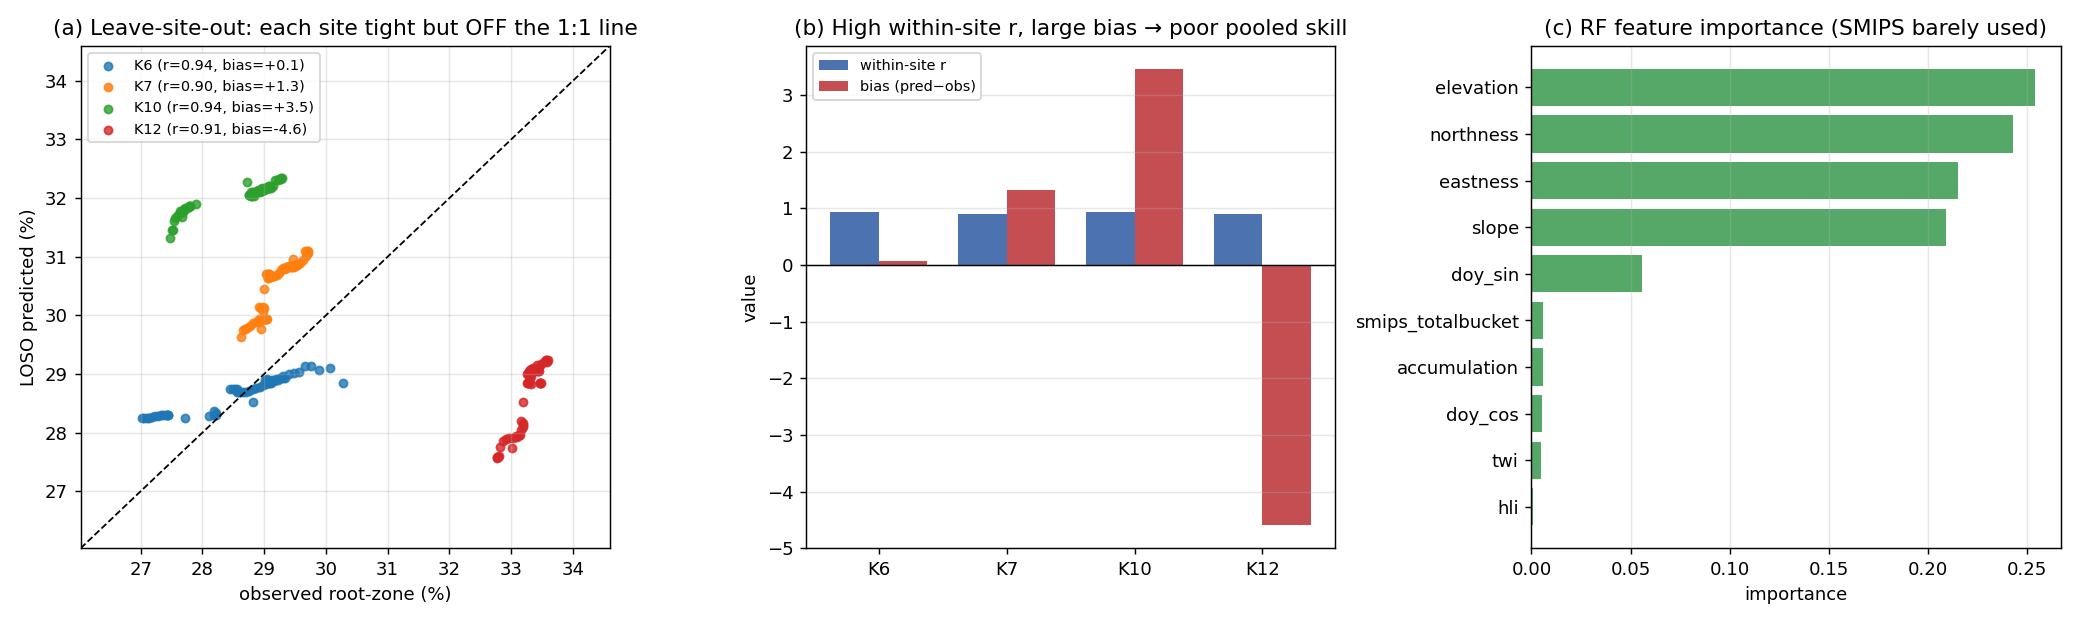
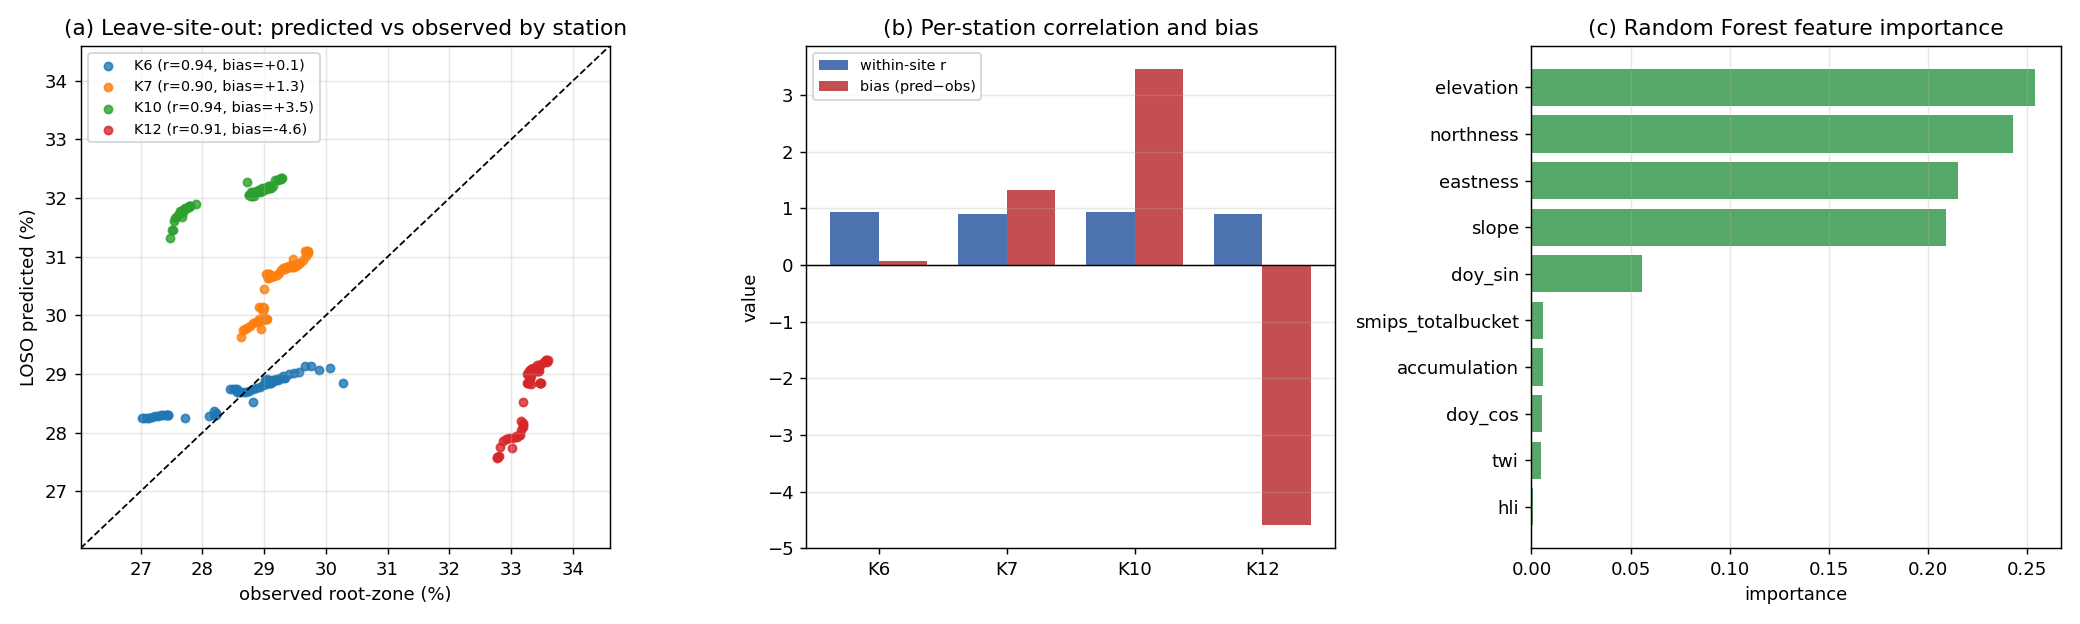
native grid vs fitted grid explanation added

Changed region(s): [[0.375, 0.0304, 0.6562, 0.0609], [0.0312, 0.0304, 0.3125, 0.0609], [0.75, 0.0304, 1.0, 0.0609]]

diff --git a/handout/plot_grid_alignment.py b/handout/plot_grid_alignment.py
@@ -1,0 +1,92 @@
+"""Illustrate the SMIPS WCS grid-alignment issue with real data at station K6.
+
+Top row: three request windows without native-grid alignment. The server refits
+an integer pixel grid to each requested box, so the cell boundaries differ
+between windows and the station (star) falls in different ~1 km cells, giving
+three different sampled values for the same location and date.
+
+Bottom row: the same three windows with snap_bbox. Each request is aligned to the
+native grid, the returned cells coincide, and the station yields one value.
+
+Run from repo root::  PYTHONPATH=. python handout/plot_grid_alignment.py
+"""
+from datetime import date
+from pathlib import Path
+
+import numpy as np
+import matplotlib
+matplotlib.use("Agg")
+import matplotlib.pyplot as plt
+
+import emt.smips as smips
+from emt.smips import smips_day
+from emt.queries import query_for_station
+
+REPO = Path(__file__).resolve().parent.parent
+FIG = REPO / "handout" / "figures" / "grid_alignment.png"
+DAY = date(2020, 6, 1)
+LON, LAT = 147.45720, -35.38978          # station K6
+HALF = 0.028                              # zoom half-width (deg), common to all panels
+
+q_stn = query_for_station("K6", LAT, LON, DAY, DAY, buffer_km=1.5)
+WINDOWS = {
+    "Wide request":   [147.435, -35.437, 147.626, -35.372],
+    "Medium request": list(q_stn.bbox),
+    "Narrow request": [LON - 0.015, LAT - 0.015, LON + 0.015, LAT + 0.015],
+}
+
+
+def fetch(bbox):
+    return smips_day(DAY, tuple(bbox)).sortby("x").sortby("y")
+
+
+def cell_edges(centres):
+    c = np.asarray(centres, float)
+    d = np.diff(c).mean()
+    return np.concatenate([[c[0] - d / 2], c + d / 2])
+
+
+def value_at(da):
+    return float(da.sel(x=LON, y=LAT, method="nearest").values)
+
+
+orig_snap = smips.snap_bbox
+fields = {}
+for name, bbox in WINDOWS.items():
+    smips.snap_bbox = lambda b, pad=1: list(b)       # alignment off (raw bbox)
+    off = fetch(bbox)
+    smips.snap_bbox = orig_snap                       # alignment on
+    on = fetch(bbox)
+    fields[name] = (off, on)
+
+crop = (fields["Wide request"][0]
+        .sel(x=slice(LON - HALF, LON + HALF), y=slice(LAT - HALF, LAT + HALF)).values)
+vmin, vmax = np.nanpercentile(crop, [5, 95])
+
+fig, axes = plt.subplots(2, 3, figsize=(15, 9.5))
+for col, (name, (off, on)) in enumerate(fields.items()):
+    for row, da in [(0, off), (1, on)]:
+        ax = axes[row, col]
+        ax.pcolormesh(cell_edges(da.x.values), cell_edges(da.y.values), da.values,
+                      cmap="YlGnBu", vmin=vmin, vmax=vmax,
+                      edgecolors="0.5", linewidth=0.4)
+        v = value_at(da)
+        ax.plot(LON, LAT, marker="*", ms=22, mfc="red", mec="k", mew=1.2, zorder=5)
+        ax.set_xlim(LON - HALF, LON + HALF); ax.set_ylim(LAT - HALF, LAT + HALF)
+        ax.set_xticks([]); ax.set_yticks([])
+        ax.set_title((f"{name}\n" if row == 0 else "") +
+                     ("aligned (snap_bbox): " if row == 1 else "raw request: ") +
+                     f"{v:.1f} mm", fontsize=11)
+        ax.text(LON, LAT - 0.006, f"{v:.1f} mm", ha="center", va="top",
+                fontsize=10, fontweight="bold",
+                bbox=dict(boxstyle="round", fc="white", alpha=.85, ec="none"))
+
+axes[0, 0].set_ylabel("Without grid alignment\n(server refits pixels to the box)", fontsize=12)
+axes[1, 0].set_ylabel("With grid alignment\n(request snapped to native grid)", fontsize=12)
+fig.suptitle("SMIPS WCS grid alignment at station K6 (2020-06-01): same location, "
+             "three request windows", fontsize=13, y=0.99)
+fig.tight_layout(rect=[0, 0, 1, 0.97])
+fig.savefig(FIG, dpi=130)
+print("wrote", FIG.relative_to(REPO))
+for name, (off, on) in fields.items():
+    print(f"{name:16} raw={value_at(off):6.2f}  aligned={value_at(on):6.2f}")

diff --git a/handout/plot_downscale.py b/handout/plot_downscale.py
@@ -68,7 +68,7 @@ fig, ax = plt.subplots(2, 2, figsize=(15, 12))
 
 # (a) coarse SMIPS input (mm), blocky ~1 km
 im0 = ax[0,0].imshow(ds["smips_native"].values, extent=ext, origin="upper", cmap="YlGnBu")
-ax[0,0].set_title("(a) Coarse SMIPS input — ~1 km (mm)")
+ax[0,0].set_title("(a) Coarse SMIPS input (~1 km, mm)")
 fig.colorbar(im0, ax=ax[0,0], shrink=.8, label="SMIPS TotalBucket (mm)")
 
 # (b) 30 m downscaled product (%), with held-out stations coloured by observation
@@ -76,7 +76,7 @@ im1 = ax[0,1].imshow(ds["sm_pred"].values, extent=ext, origin="upper",
                      cmap="YlGnBu", vmin=vmin, vmax=vmax)
 ax[0,1].scatter(sx, sy, c=obs[TARGET], cmap="YlGnBu", vmin=vmin, vmax=vmax,
                 s=90, edgecolor="red", linewidth=1.5, zorder=3)
-ax[0,1].set_title("(b) Downscaled 30 m product (%) — dots = held-out OzNet obs")
+ax[0,1].set_title("(b) Downscaled 30 m product (%); dots = held-out OzNet stations")
 fig.colorbar(im1, ax=ax[0,1], shrink=.8, label="root-zone SM (%)")
 
 # (c) the terrain detail the downscaling adds (zoom on the field)
@@ -85,7 +85,7 @@ sub = ds["sm_pred"].values[zy:zy+ny//3, zx:zx+nx//3]
 sub_ext = [float(ds.x[zx]), float(ds.x[zx+nx//3-1]),
            float(ds.y[zy+ny//3-1]), float(ds.y[zy])]
 im2 = ax[1,0].imshow(sub, extent=sub_ext, origin="upper", cmap="YlGnBu")
-ax[1,0].set_title("(c) Zoom: terrain-driven 30 m structure (absent in SMIPS)")
+ax[1,0].set_title("(c) Detail: 30 m terrain structure")
 fig.colorbar(im2, ax=ax[1,0], shrink=.8, label="root-zone SM (%)")
 
 # (d) validation scatter
@@ -97,15 +97,15 @@ lim = [min(obs[TARGET].min(), obs["pred"].min())-2,
        max(obs[TARGET].max(), obs["pred"].max())+2]
 ax[1,1].plot(lim, lim, "k--", lw=1)
 ax[1,1].set(xlim=lim, ylim=lim, xlabel="OzNet observed (%)", ylabel="downscaled @ station (%)",
-            title="(d) Held-out validation @ 12 Yanco stations")
+            title="(d) Held-out validation at 12 Yanco stations")
 ax[1,1].text(.03, .97, f"RMSE={M['rmse']:.2f}%\nubRMSE={M['ubrmse']:.2f}%\n"
              f"bias={M['bias']:+.2f}%\nr={M['r']:.2f}  n={M['n']}",
              transform=ax[1,1].transAxes, va="top", fontsize=10,
              bbox=dict(boxstyle="round", fc="w", alpha=.8))
 ax[1,1].grid(alpha=.3)
 
-fig.suptitle(f"Stage 6 — SMIPS → 30 m over Yanco, {DAY} "
-             f"(model trained on Kyeamba+Adelong, Yanco held out)", y=1.0, fontsize=13)
+fig.suptitle(f"Stage 6: SMIPS to 30 m over Yanco, {DAY} "
+             f"(trained on Kyeamba and Adelong; Yanco held out)", y=1.0, fontsize=13)
 fig.tight_layout()
 fig.savefig(FIG, dpi=130)
 stamp(f"wrote {FIG.relative_to(REPO)}")

diff --git a/handout/plot_results.py b/handout/plot_results.py
@@ -90,7 +90,7 @@ def fig_data(new, old):
     ax[0].plot(lim, lim, "k--", lw=1, label="1:1 (no change)")
     ax[0].set(xlim=lim, ylim=lim, xlabel="SMIPS old (resampled, mm)",
               ylabel="SMIPS new (native grid, mm)",
-              title="(a) SMIPS correction from native-grid snapping")
+              title="(a) SMIPS before vs after native-grid alignment")
     ax[0].legend(fontsize=8); ax[0].grid(alpha=.3)
 
     shift = df.groupby("station").apply(
@@ -130,7 +130,7 @@ def fig_model(new, cv, per_site, imp):
     lim = [pred[[TARGET, "pred"]].min().min()-1, pred[[TARGET, "pred"]].max().max()+1]
     ax[0].plot(lim, lim, "k--", lw=1)
     ax[0].set(xlim=lim, ylim=lim, xlabel="observed root-zone (%)", ylabel="LOSO predicted (%)",
-              title="(a) Leave-site-out: each site tight but OFF the 1:1 line")
+              title="(a) Leave-site-out: predicted vs observed by station")
     ax[0].legend(fontsize=8, loc="upper left"); ax[0].grid(alpha=.3)
 
     x = np.arange(len(STATIONS)); w = 0.38
@@ -138,12 +138,12 @@ def fig_model(new, cv, per_site, imp):
     ax[1].bar(x+w/2, [per_site.loc[s, "bias"] for s in STATIONS], w, label="bias (pred−obs)", color="#c44e52")
     ax[1].axhline(0, color="k", lw=.8)
     ax[1].set_xticks(x); ax[1].set_xticklabels(STATIONS)
-    ax[1].set(title="(b) High within-site r, large bias → poor pooled skill", ylabel="value")
+    ax[1].set(title="(b) Per-station correlation and bias", ylabel="value")
     ax[1].legend(fontsize=8); ax[1].grid(alpha=.3, axis="y")
 
     imp_s = imp.sort_values()
     ax[2].barh(imp_s.index, imp_s.values, color="#55a868")
-    ax[2].set(title="(c) RF feature importance (SMIPS barely used)", xlabel="importance")
+    ax[2].set(title="(c) Random Forest feature importance", xlabel="importance")
     ax[2].grid(alpha=.3, axis="x")
 
     fig.tight_layout()
@@ -170,8 +170,8 @@ def fig_timeseries(new, cv, per_site):
         axx.xaxis.set_major_formatter(mdates.DateFormatter("%b %d"))
         if stn == "K6":
             axx.legend(fontsize=8, loc="upper left")
-    fig.suptitle("Leave-site-out prediction vs observed (right axis: SMIPS) — "
-                 "shape tracks, level is offset", y=1.0)
+    fig.suptitle("Leave-site-out prediction vs observed by station "
+                 "(right axis: SMIPS)", y=1.0)
     fig.tight_layout()
     fig.savefig(FIG_DIR / "per_site_timeseries.png", dpi=130)
     plt.close(fig)

diff --git a/handout/plot_catchment.py b/handout/plot_catchment.py
@@ -51,7 +51,7 @@ for patch, s in zip(bp["boxes"], SITES):
 for s, d in zip(SITES, data):
     ax[0,0].text(SITES.index(s)+1, np.median(d)+1, f"μ={d.mean():.0f}", ha="center", fontsize=9)
 ax[0,0].set(ylabel="SMIPS TotalBucket (mm)",
-            title="(a) SMIPS varies across sites now (the missing signal)")
+            title="(a) SMIPS distribution by site")
 ax[0,0].grid(alpha=.3, axis="y")
 
 # (b) leave-site-out predicted vs observed
@@ -74,7 +74,7 @@ ax[1,0].barh(y+h/2, [imp[f] for f in order], h, color="#55a868", label="catchmen
 ax[1,0].barh(y-h/2, [KYEAMBA_IMP.get(f,0) for f in order], h, color="#bbbbbb", label="Kyeamba-only (4 stn)")
 ax[1,0].set_yticks(y); ax[1,0].set_yticklabels(order); ax[1,0].invert_yaxis()
 ax[1,0].set(xlabel="importance",
-            title="(c) SMIPS goes from least- to most-used feature")
+            title="(c) Feature importance: catchment vs single-cluster")
 ax[1,0].legend(fontsize=9); ax[1,0].grid(alpha=.3, axis="x")
 
 # (d) per-station bias (remaining limitation)
@@ -84,7 +84,7 @@ ax[1,1].bar(range(len(ps)), ps["bias"], color=colors)
 ax[1,1].axhline(0, color="k", lw=.8)
 ax[1,1].set_xticks(range(len(ps))); ax[1,1].set_xticklabels(ps["station"], rotation=90, fontsize=7)
 ax[1,1].set(ylabel="per-station bias (pred−obs, %)",
-            title="(d) Residual per-station level bias (local soil, not in SMIPS+terrain)")
+            title="(d) Residual per-station bias")
 ax[1,1].grid(alpha=.3, axis="y")
 handles = [plt.Rectangle((0,0),1,1,color=SITE_COLOR[s]) for s in SITES]
 ax[1,1].legend(handles, SITES, fontsize=8)

diff --git a/handout/README.md b/handout/README.md
@@ -40,60 +40,88 @@ fit.
 
 ## Data quality: SMIPS WCS grid resampling
 
-The TERN GeoServer Web Coverage Service resamples each `GetCoverage` response to
-fit an integer pixel count within the requested bounding box. Consequently the
-grid origin and cell size of the returned raster depend on the request extent,
-and a fixed geographic point can fall in different ≈1 km cells depending on the
-window requested. For station K6 the sampled value was 43.7, 49.6, or 61.6 mm
-across three request windows for the same location and date (a ≈40 % range).
+SMIPS is published on a fixed *native grid*: ≈1 km cells at fixed geographic
+positions (origin 112.90499°E, −43.73500°N; cell size 0.0099976°, from the WCS
+`DescribeCoverage`). The TERN GeoServer Web Coverage Service does not return that
+grid directly; it fits an integer number of pixels into whatever bounding box is
+requested, so the returned cell size and origin shift with the request. A fixed
+point can therefore fall in different ≈1 km cells depending on the window: for
+station K6 the sampled value was 43.7, 49.6, or 61.6 mm across three windows for
+the same location and date (a ≈40 % range).
 
-The resolution (`snap_bbox` in [`smips.py`](modules/smips.py.md)) aligns every
-request to the native SMIPS grid, taken from the WCS `DescribeCoverage`
-(origin 112.90499°E, −43.73500°N; cell size 0.0099976°). With an aligned
-envelope the server's integer-pixel fit coincides with the native grid, making
-the sampled value independent of the request window. (The `scaleFactor=1`
-parameter was tested and confirmed to have no effect.)
+The fix (`snap_bbox` in [`smips.py`](modules/smips.py.md)) rounds each request
+out to the native grid lines, so the server's integer-pixel fit reproduces the
+native grid and sampling becomes independent of the request window. (The
+`scaleFactor=1` parameter was tested and has no effect.)
+
+The mechanism and its resolution are shown below for station K6 on one day, using
+three request windows of different sizes centred on the station.
+
+![SMIPS WCS grid alignment](figures/grid_alignment.png)
+
+Top row (without alignment): the service returns a different pixel grid for each
+request window, so the cell boundaries shift between panels and the station (red
+star) falls in a different ≈1 km cell each time, yielding 43.7, 49.6, and 61.6 mm
+for the same location and date. Bottom row (with `snap_bbox`): each request is
+aligned to the native grid, the returned cells coincide across all three windows,
+and the station returns 61.6 mm in every case. This figure is reproduced from
+live SMIPS by [`plot_grid_alignment.py`](plot_grid_alignment.py). The next figure
+shows the effect of this correction on the training data.
 
 ![SMIPS sampling correction](figures/smips_correction.png)
 
-- **(a)** Pre- and post-correction SMIPS values. Three of the four stations were
-  unaffected (their original windows already resolved to the correct cell);
-  station K6 changed.
-- **(b)** Mean per-station change: K6 +15.4 mm, others ≈0.
-- **(c)** Corrected SMIPS against the target. The four Kyeamba stations occupy
-  near-horizontal bands: SMIPS varies within a site but provides limited
-  separation between site-mean moisture levels. This is relevant to the result
-  in the next section.
+In this figure and those that follow, each colour denotes one of the four
+Kyeamba stations (K6, K7, K10, K12) and a point is one station-day.
+
+- **(a)** SMIPS values before (x) versus after (y) the correction; the dashed
+  line marks no change. Three stations lie on the line (their original request
+  windows already resolved to the correct cell); K6 lies above it, indicating its
+  values changed.
+- **(b)** Mean per-station change: K6 +15.4 mm, the others ≈0. The resampling
+  issue materially affected one of the four stations.
+- **(c)** Corrected SMIPS (x) against the observed target (y). The four stations
+  occupy near-horizontal bands (K12 ≈33 %, the others ≈29 %): SMIPS varies within
+  a station but provides little separation between the stations' mean moisture
+  levels. The weak pooled correlation (r = 0.25) reflects this and is relevant to
+  the next section.
 
 Cached SMIPS extracted before this correction used window-dependent values; the
 training table and model were rebuilt after clearing the cache.
 
 ## Initial evaluation: single-cluster training set
 
-The model was first evaluated on four Kyeamba stations (June–July 2020).
-Leave-site-out cross-validation yielded negative pooled skill
-(r = −0.45, r² = −1.16), and SMIPS received negligible feature importance
-(0.006).
+The model was first evaluated on four Kyeamba stations (June–July 2020) using
+**leave-site-out cross-validation**: the model is trained on three stations and
+evaluated on the fourth, which it has not seen, with the procedure repeated for
+each station in turn. This estimates performance at a new location, which is the
+intended application. The result was negative pooled skill (r = −0.45,
+r² = −1.16), with negligible SMIPS feature importance (0.006). The figures below
+explain why.
 
 ![Leave-site-out cross-validation, Kyeamba](figures/leave_site_out_cv.png)
 
-- **(a)** Predicted versus observed for each held-out station. Per-station
-  correlation is high (each cluster aligns along the diagonal) but offset from
-  the 1:1 line.
-- **(b)** Per-station correlation is ≈0.9 throughout, while per-station bias is
-  large (K10 +3.5, K12 −4.6). High correlation combined with large bias produces
-  the negative pooled r².
-- **(c)** Feature importance is dominated by terrain (≈88 %); SMIPS contributes
-  ≈0.006.
+- **(a)** Predicted (y) versus observed (x) for each held-out station; the dashed
+  line marks perfect prediction. Each station forms a tight cluster (the
+  day-to-day variation is reproduced) but the clusters sit off the line. K12
+  (observed ≈33 %, predicted ≈28 %) is the clearest case: the temporal pattern is
+  correct but the absolute level is not.
+- **(b)** Per station, the correlation (blue) is ≈0.9 throughout while the bias
+  (red) is large (K10 +3.5, K12 −4.6). High correlation combined with large bias
+  produces the negative pooled r².
+- **(c)** Feature importance is dominated by terrain (≈88 %); `smips_totalbucket`
+  is near the bottom (≈0.006). For a method intended to downscale SMIPS, this
+  indicates SMIPS is not contributing.
 
 ![Per-site time series, Kyeamba](figures/per_site_timeseries.png)
 
-The per-station time series show that temporal dynamics are reproduced while the
-absolute level is offset.
+The per-station time series (black: observed; colour: held-out prediction; grey
+dashed: SMIPS on the right axis) show the same outcome: the prediction follows
+the shape of the observations but sits at an offset level.
 
-**Assessment.** The four stations lie within approximately one SMIPS cell, so
-the coarse predictor carries no between-station signal. The model reproduces
-temporal dynamics but cannot determine the absolute level of a held-out station.
+**Assessment.** The four stations lie within approximately one SMIPS cell, so the
+coarse predictor takes nearly the same value at all four and carries no
+between-station signal. With no basis for distinguishing the stations, the model
+relies on terrain and cannot determine the absolute level of a held-out station.
 This is a limitation of training-set spatial coverage rather than of the
 pipeline, and motivates expansion to multiple catchments.
 
@@ -204,9 +232,10 @@ Run from the repository root with the `paddockts` conda environment active (so
 that `PaddockTS` and the cached inputs are available):
 
 ```bash
-PYTHONPATH=. python handout/plot_results.py     # smips_correction, leave_site_out_cv, per_site_timeseries
-PYTHONPATH=. python handout/plot_catchment.py   # catchment_results
-PYTHONPATH=. python handout/plot_downscale.py   # downscale_yanco (30 m field)
+PYTHONPATH=. python handout/plot_grid_alignment.py  # grid_alignment
+PYTHONPATH=. python handout/plot_results.py         # smips_correction, leave_site_out_cv, per_site_timeseries
+PYTHONPATH=. python handout/plot_catchment.py       # catchment_results
+PYTHONPATH=. python handout/plot_downscale.py       # downscale_yanco (30 m field)
 ```
 
 `plot_results.py` rebuilds the Kyeamba June–July 2020 table, reconstructs the
